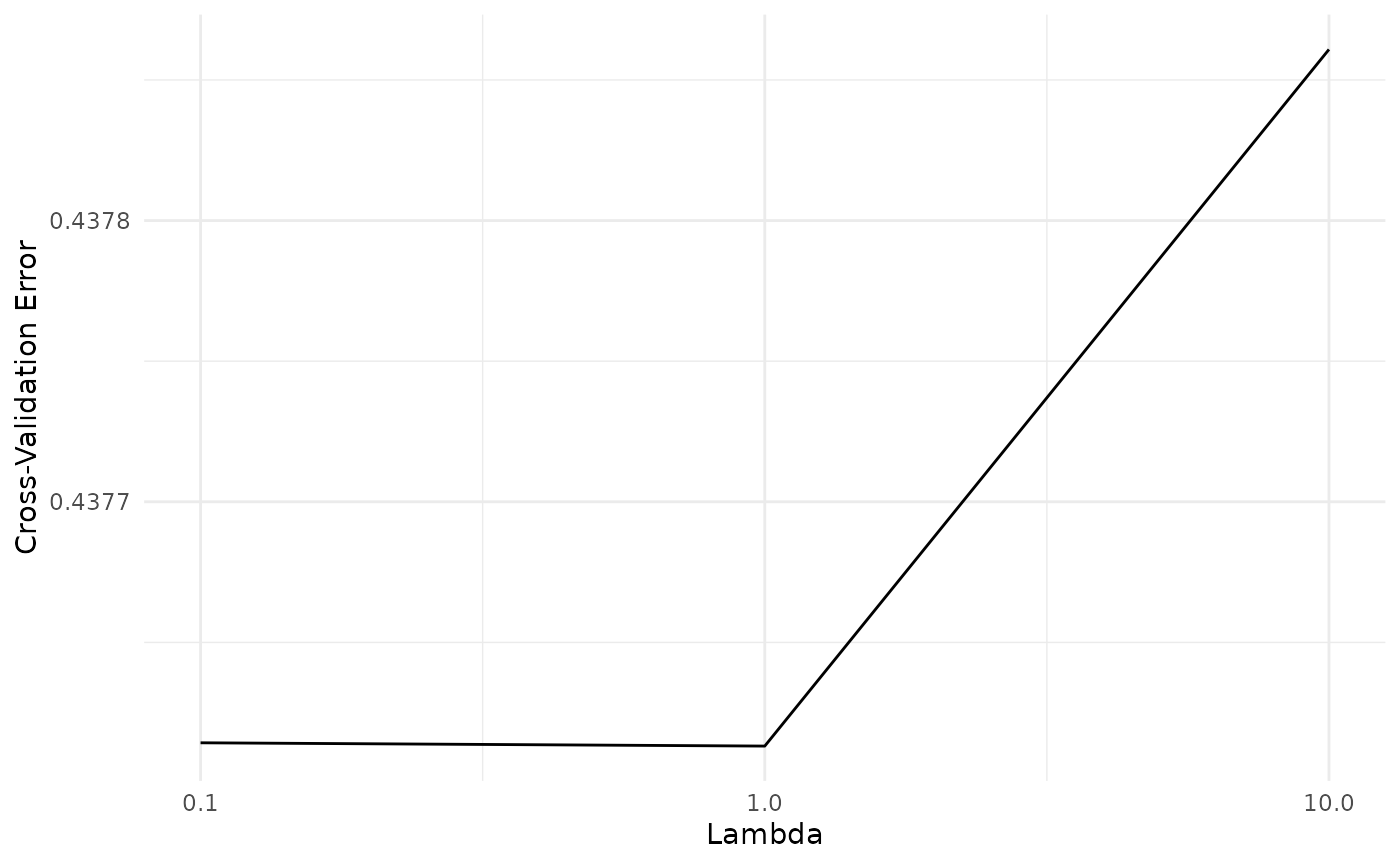
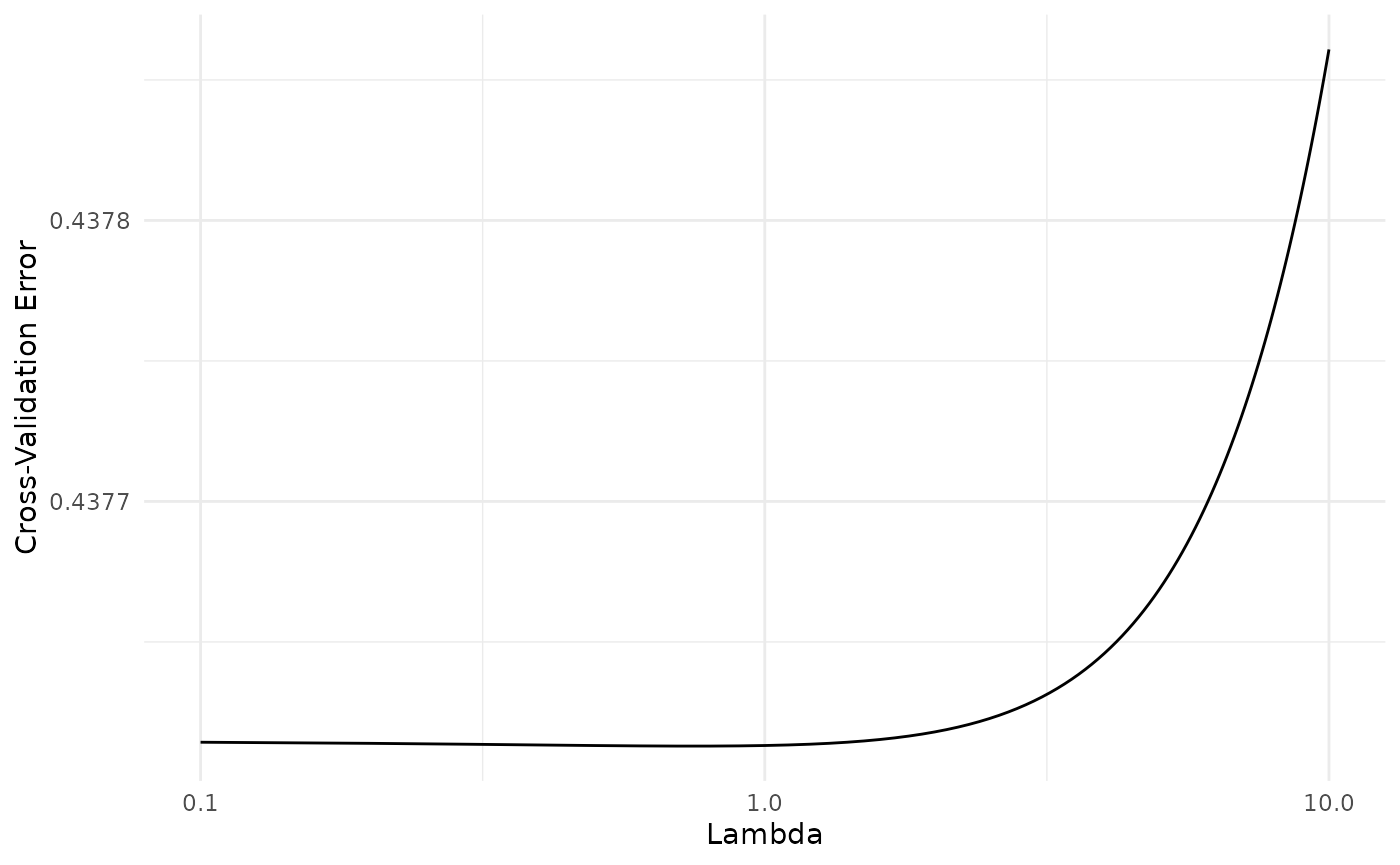
Deploying to gh-pages from @ ldjeuyou-hash/RidgeLeonFokou@33141b610cff39e7c19288529e4f7d5a02a1f2e9 🚀

diff --git a/articles/introduction.html b/articles/introduction.html
@@ -19,7 +19,7 @@
 
     <a class="navbar-brand me-2" href="../index.html">RidgeLeonFokou</a>
 
-    <small class="nav-text text-muted me-auto" data-bs-toggle="tooltip" data-bs-placement="bottom" title="">0.0.0.9000</small>
+    <small class="nav-text text-muted me-auto" data-bs-toggle="tooltip" data-bs-placement="bottom" title="">1.0.0</small>
 
 
     <button class="navbar-toggler" type="button" data-bs-toggle="collapse" data-bs-target="#navbar" aria-controls="navbar" aria-expanded="false" aria-label="Toggle navigation">
@@ -35,6 +35,7 @@
 <li><a class="dropdown-item" href="../articles/introduction.html">Introduction a RidgeLeonFokou</a></li>
   </ul>
 </li>
+<li class="nav-item"><a class="nav-link" href="../news/index.html">Changelog</a></li>
       </ul>
 <ul class="navbar-nav">
 <li class="nav-item"><form class="form-inline" role="search">
@@ -131,7 +132,7 @@ fonction avec les données simulées <code>X</code> et <code>Y</code>
 <span><span class="va">ridge_model</span> <span class="op">&lt;-</span> <span class="fu"><a href="../reference/ridge.html">ridge</a></span><span class="op">(</span></span>
 <span>  X_input <span class="op">=</span> <span class="va">X</span></span>
 <span>  , Y_input <span class="op">=</span> <span class="va">Y</span></span>
-<span>  , lambda_grid <span class="op">=</span> <span class="fu"><a href="https://rdrr.io/r/base/c.html" class="external-link">c</a></span><span class="op">(</span><span class="fl">0.1</span>, <span class="fl">1</span>, <span class="fl">10</span><span class="op">)</span></span>
+<span>  , lambda_grid <span class="op">=</span> <span class="fu"><a href="https://rdrr.io/r/base/seq.html" class="external-link">seq</a></span><span class="op">(</span><span class="fl">0.1</span>, <span class="fl">10</span>, length.out <span class="op">=</span> <span class="fl">100</span><span class="op">)</span></span>
 <span>  , name <span class="op">=</span> <span class="st">"ridge_model_example"</span></span>
 <span>  , n_folds <span class="op">=</span> <span class="fl">5</span></span>
 <span><span class="op">)</span></span></code></pre></div>
@@ -206,9 +207,9 @@ d’utilisation de cette fonction :</p>
 <span><span class="co">#&gt; Nom: ridge_model_example </span></span>
 <span><span class="co">#&gt; Nombre de predicteurs: 4 </span></span>
 <span><span class="co">#&gt; Nombre d'observations: 1000 </span></span>
-<span><span class="co">#&gt; Domaine de Lambda : [0.1, 10]  avec 3 valeurs et pas de 3.3</span></span>
-<span><span class="co">#&gt; Lambda optimal obtenu par validation croisee: 1 </span></span>
-<span><span class="co">#&gt; Erreur de validation croisee minimale: 0.4376131 </span></span>
+<span><span class="co">#&gt; Domaine de Lambda : [0.1, 10]  avec 100 valeurs et pas de 0.099</span></span>
+<span><span class="co">#&gt; Lambda optimal obtenu par validation croisee: 0.7 </span></span>
+<span><span class="co">#&gt; Erreur de validation croisee minimale: 0.4376129 </span></span>
 <span><span class="co">#&gt; Nombre de folds pour la validation croisee: 5</span></span></code></pre></div>
 </div>
 <div class="section level4">
@@ -225,11 +226,12 @@ d’utilisation de cette fonction :</p>
 <span><span class="va">predictions</span> <span class="op">&lt;-</span> <span class="fu"><a href="https://rdrr.io/r/stats/predict.html" class="external-link">predict</a></span><span class="op">(</span>object <span class="op">=</span> <span class="va">ridge_model</span>, X <span class="op">=</span> <span class="va">new_data</span><span class="op">)</span></span>
 <span><span class="fu"><a href="https://rdrr.io/r/utils/head.html" class="external-link">head</a></span><span class="op">(</span><span class="va">predictions</span><span class="op">)</span></span>
 <span><span class="co">#&gt;         [,1]</span></span>
-<span><span class="co">#&gt; 1 78.8713440</span></span>
-<span><span class="co">#&gt; 2  0.8426937</span></span>
-<span><span class="co">#&gt; 3 21.2868170</span></span>
-<span><span class="co">#&gt; 4 38.5204649</span></span>
-<span><span class="co">#&gt; 5 16.3686934</span></span></code></pre></div>
+<span><span class="co">#&gt; 1 78.8706094</span></span>
+<span><span class="co">#&gt; 2  0.8430522</span></span>
+<span><span class="co">#&gt; 3 21.2870103</span></span>
+<span><span class="co">#&gt; 4 38.5205570</span></span>
+<span><span class="co">#&gt; 5 16.3690422</span></span>
+<span><span class="co">#&gt; 6 96.8250517</span></span></code></pre></div>
 <p>Il est tout a fait possible de faire des prédictions sur de nouvelles
 données en utilisant la fonction <code><a href="https://rdrr.io/r/stats/predict.html" class="external-link">predict()</a></code>. Il suffit juste
 de fournir l’objet du modèle de régression et les nouvelles données sur
@@ -243,8 +245,13 @@ d’utilisation de cette fonction :</p>
 <span><span class="va">new_data</span> <span class="op">&lt;-</span> <span class="fu"><a href="https://rdrr.io/r/base/c.html" class="external-link">c</a></span><span class="op">(</span><span class="fl">1</span>, <span class="fl">2</span>, <span class="fl">3</span>, <span class="fl">4</span><span class="op">)</span></span>
 <span><span class="va">predictions</span> <span class="op">&lt;-</span> <span class="fu"><a href="https://rdrr.io/r/stats/predict.html" class="external-link">predict</a></span><span class="op">(</span>object <span class="op">=</span> <span class="va">ridge_model</span>, X <span class="op">=</span> <span class="va">new_data</span><span class="op">)</span></span>
 <span><span class="fu"><a href="https://rdrr.io/r/utils/head.html" class="external-link">head</a></span><span class="op">(</span><span class="va">predictions</span><span class="op">)</span></span>
-<span><span class="co">#&gt;             [,1]</span></span>
-<span><span class="co">#&gt; X_input 12.76577</span></span></code></pre></div>
+<span><span class="co">#&gt;         [,1]</span></span>
+<span><span class="co">#&gt; 1 78.8706094</span></span>
+<span><span class="co">#&gt; 2  0.8430522</span></span>
+<span><span class="co">#&gt; 3 21.2870103</span></span>
+<span><span class="co">#&gt; 4 38.5205570</span></span>
+<span><span class="co">#&gt; 5 16.3690422</span></span>
+<span><span class="co">#&gt; 6 96.8250517</span></span></code></pre></div>
 <p>Si par contre aucune donnée n’est fournie, la fonction
 <code><a href="https://rdrr.io/r/stats/predict.html" class="external-link">predict()</a></code> retournera les prédictions sur les données
 d’entraînement utilisées pour ajuster le modèle. Voici un exemple
@@ -253,12 +260,12 @@ d’utilisation de cette fonction sans fournir de nouvelles données :</p>
 <code class="sourceCode R"><span><span class="va">predictions</span> <span class="op">&lt;-</span> <span class="fu"><a href="https://rdrr.io/r/stats/predict.html" class="external-link">predict</a></span><span class="op">(</span>object <span class="op">=</span> <span class="va">ridge_model</span><span class="op">)</span></span>
 <span><span class="fu"><a href="https://rdrr.io/r/utils/head.html" class="external-link">head</a></span><span class="op">(</span><span class="va">predictions</span><span class="op">)</span></span>
 <span><span class="co">#&gt;         [,1]</span></span>
-<span><span class="co">#&gt; 1 78.8713440</span></span>
-<span><span class="co">#&gt; 2  0.8426937</span></span>
-<span><span class="co">#&gt; 3 21.2868170</span></span>
-<span><span class="co">#&gt; 4 38.5204649</span></span>
-<span><span class="co">#&gt; 5 16.3686934</span></span>
-<span><span class="co">#&gt; 6 96.8254454</span></span></code></pre></div>
+<span><span class="co">#&gt; 1 78.8706094</span></span>
+<span><span class="co">#&gt; 2  0.8430522</span></span>
+<span><span class="co">#&gt; 3 21.2870103</span></span>
+<span><span class="co">#&gt; 4 38.5205570</span></span>
+<span><span class="co">#&gt; 5 16.3690422</span></span>
+<span><span class="co">#&gt; 6 96.8250517</span></span></code></pre></div>
 </div>
 <div class="section level4">
 <h4 id="visualisation-des-erreurs-de-validation-croisée">Visualisation des erreurs de validation croisée<a class="anchor" aria-label="anchor" href="#visualisation-des-erreurs-de-validation-crois%C3%A9e"></a>

diff --git a/news/index.html b/news/index.html
@@ -1,0 +1,61 @@
+<!DOCTYPE html>
+<!-- Generated by pkgdown: do not edit by hand --><html lang="en"><head><meta charset="UTF-8"><meta http-equiv="X-UA-Compatible" content="IE=edge"><meta name="viewport" content="width=device-width, initial-scale=1, shrink-to-fit=no"><title>Changelog • RidgeLeonFokou</title><script src="../deps/jquery-3.6.0/jquery-3.6.0.min.js"></script><meta name="viewport" content="width=device-width, initial-scale=1, shrink-to-fit=no"><link href="../deps/bootstrap-5.3.8/bootstrap.min.css" rel="stylesheet"><script src="../deps/bootstrap-5.3.8/bootstrap.bundle.min.js"></script><link href="../deps/font-awesome-6.5.2/css/all.min.css" rel="stylesheet"><link href="../deps/font-awesome-6.5.2/css/v4-shims.min.css" rel="stylesheet"><script src="../deps/headroom-0.11.0/headroom.min.js"></script><script src="../deps/headroom-0.11.0/jQuery.headroom.min.js"></script><script src="../deps/bootstrap-toc-1.0.1/bootstrap-toc.min.js"></script><script src="../deps/clipboard.js-2.0.11/clipboard.min.js"></script><script src="../deps/search-1.0.0/autocomplete.jquery.min.js"></script><script src="../deps/search-1.0.0/fuse.min.js"></script><script src="../deps/search-1.0.0/mark.min.js"></script><!-- pkgdown --><script src="../pkgdown.js"></script><meta property="og:title" content="Changelog"></head><body>
+    <a href="#main" class="visually-hidden-focusable">Skip to contents</a>
+
+
+    <nav class="navbar navbar-expand-lg fixed-top bg-light" data-bs-theme="light" aria-label="Site navigation"><div class="container">
+
+    <a class="navbar-brand me-2" href="../index.html">RidgeLeonFokou</a>
+
+    <small class="nav-text text-muted me-auto" data-bs-toggle="tooltip" data-bs-placement="bottom" title="">1.0.0</small>
+
+
+    <button class="navbar-toggler" type="button" data-bs-toggle="collapse" data-bs-target="#navbar" aria-controls="navbar" aria-expanded="false" aria-label="Toggle navigation">
+      <span class="navbar-toggler-icon"></span>
+    </button>
+
+    <div id="navbar" class="collapse navbar-collapse ms-3">
+      <ul class="navbar-nav me-auto"><li class="nav-item"><a class="nav-link" href="../reference/index.html">Reference</a></li>
+<li class="nav-item dropdown">
+  <button class="nav-link dropdown-toggle" type="button" id="dropdown-articles" data-bs-toggle="dropdown" aria-expanded="false" aria-haspopup="true">Articles</button>
+  <ul class="dropdown-menu" aria-labelledby="dropdown-articles"><li><a class="dropdown-item" href="../articles/introduction.html">Introduction a RidgeLeonFokou</a></li>
+  </ul></li>
+<li class="active nav-item"><a class="nav-link" href="../news/index.html">Changelog</a></li>
+      </ul><ul class="navbar-nav"><li class="nav-item"><form class="form-inline" role="search">
+ <input class="form-control" type="search" name="search-input" id="search-input" autocomplete="off" aria-label="Search site" placeholder="Search for" data-search-index="../search.json"></form></li>
+<li class="nav-item"><a class="external-link nav-link" href="https://github.com/ldjeuyou-hash/RidgeLeonFokou/" aria-label="GitHub"><span class="fa fab fa-github fa-lg"></span></a></li>
+      </ul></div>
+
+
+  </div>
+</nav><div class="container template-news">
+<div class="row">
+  <main id="main" class="col-md-9"><div class="page-header">
+
+      <h1>Changelog</h1>
+      <small>Source: <a href="https://github.com/ldjeuyou-hash/RidgeLeonFokou/blob/master/NEWS.md" class="external-link"><code>NEWS.md</code></a></small>
+    </div>
+
+    <div class="section level2">
+<h2 class="pkg-version" data-toc-text="1.0.0" id="ridgeleonfokou-100">RidgeLeonFokou 1.0.0<a class="anchor" aria-label="anchor" href="#ridgeleonfokou-100"></a></h2>
+<ul><li>Initial CRAN submission.</li>
+</ul></div>
+  </main></div>
+
+
+    <footer><div class="pkgdown-footer-left">
+  <p>Developed by Leon Fokou.</p>
+</div>
+
+<div class="pkgdown-footer-right">
+  <p>Site built with <a href="https://pkgdown.r-lib.org/" class="external-link">pkgdown</a> 2.2.1.</p>
+</div>
+
+    </footer></div>
+
+
+
+
+
+  </body></html>
+

diff --git a/authors.html b/authors.html
@@ -7,7 +7,7 @@
 
     <a class="navbar-brand me-2" href="index.html">RidgeLeonFokou</a>
 
-    <small class="nav-text text-muted me-auto" data-bs-toggle="tooltip" data-bs-placement="bottom" title="">0.0.0.9000</small>
+    <small class="nav-text text-muted me-auto" data-bs-toggle="tooltip" data-bs-placement="bottom" title="">1.0.0</small>
 
 
     <button class="navbar-toggler" type="button" data-bs-toggle="collapse" data-bs-target="#navbar" aria-controls="navbar" aria-expanded="false" aria-label="Toggle navigation">
@@ -20,6 +20,7 @@
   <button class="nav-link dropdown-toggle" type="button" id="dropdown-articles" data-bs-toggle="dropdown" aria-expanded="false" aria-haspopup="true">Articles</button>
   <ul class="dropdown-menu" aria-labelledby="dropdown-articles"><li><a class="dropdown-item" href="articles/introduction.html">Introduction a RidgeLeonFokou</a></li>
   </ul></li>
+<li class="nav-item"><a class="nav-link" href="news/index.html">Changelog</a></li>
       </ul><ul class="navbar-nav"><li class="nav-item"><form class="form-inline" role="search">
  <input class="form-control" type="search" name="search-input" id="search-input" autocomplete="off" aria-label="Search site" placeholder="Search for" data-search-index="search.json"></form></li>
 <li class="nav-item"><a class="external-link nav-link" href="https://github.com/ldjeuyou-hash/RidgeLeonFokou/" aria-label="GitHub"><span class="fa fab fa-github fa-lg"></span></a></li>
@@ -49,13 +50,13 @@
 
       <p>Fokou L (2026).
 <em>RidgeLeonFokou: Regression Ridge et Validation Croisée</em>.
-R package version 0.0.0.9000, <a href="https://github.com/ldjeuyou-hash/RidgeLeonFokou" class="external-link">https://github.com/ldjeuyou-hash/RidgeLeonFokou</a>.
+R package version 1.0.0, <a href="https://github.com/ldjeuyou-hash/RidgeLeonFokou" class="external-link">https://github.com/ldjeuyou-hash/RidgeLeonFokou</a>.
 </p>
       <pre>@Manual{,
   title = {RidgeLeonFokou: Regression Ridge et Validation Croisée},
   author = {Leon Fokou},
   year = {2026},
-  note = {R package version 0.0.0.9000},
+  note = {R package version 1.0.0},
   url = {https://github.com/ldjeuyou-hash/RidgeLeonFokou},
 }</pre>
     </div>

diff --git a/reference/get_ridge_beta.html b/reference/get_ridge_beta.html
@@ -9,7 +9,7 @@ regression ridge pour un dataframe et une reponse donnee"></head><body>
 
     <a class="navbar-brand me-2" href="../index.html">RidgeLeonFokou</a>
 
-    <small class="nav-text text-muted me-auto" data-bs-toggle="tooltip" data-bs-placement="bottom" title="">0.0.0.9000</small>
+    <small class="nav-text text-muted me-auto" data-bs-toggle="tooltip" data-bs-placement="bottom" title="">1.0.0</small>
 
 
     <button class="navbar-toggler" type="button" data-bs-toggle="collapse" data-bs-target="#navbar" aria-controls="navbar" aria-expanded="false" aria-label="Toggle navigation">
@@ -22,6 +22,7 @@ regression ridge pour un dataframe et une reponse donnee"></head><body>
   <button class="nav-link dropdown-toggle" type="button" id="dropdown-articles" data-bs-toggle="dropdown" aria-expanded="false" aria-haspopup="true">Articles</button>
   <ul class="dropdown-menu" aria-labelledby="dropdown-articles"><li><a class="dropdown-item" href="../articles/introduction.html">Introduction a RidgeLeonFokou</a></li>
   </ul></li>
+<li class="nav-item"><a class="nav-link" href="../news/index.html">Changelog</a></li>
       </ul><ul class="navbar-nav"><li class="nav-item"><form class="form-inline" role="search">
  <input class="form-control" type="search" name="search-input" id="search-input" autocomplete="off" aria-label="Search site" placeholder="Search for" data-search-index="../search.json"></form></li>
 <li class="nav-item"><a class="external-link nav-link" href="https://github.com/ldjeuyou-hash/RidgeLeonFokou/" aria-label="GitHub"><span class="fa fab fa-github fa-lg"></span></a></li>

diff --git a/reference/ridge.html b/reference/ridge.html
@@ -9,7 +9,7 @@ d'un dataframe et d'une valeur réponse donnée"></head><body>
 
     <a class="navbar-brand me-2" href="../index.html">RidgeLeonFokou</a>
 
-    <small class="nav-text text-muted me-auto" data-bs-toggle="tooltip" data-bs-placement="bottom" title="">0.0.0.9000</small>
+    <small class="nav-text text-muted me-auto" data-bs-toggle="tooltip" data-bs-placement="bottom" title="">1.0.0</small>
 
 
     <button class="navbar-toggler" type="button" data-bs-toggle="collapse" data-bs-target="#navbar" aria-controls="navbar" aria-expanded="false" aria-label="Toggle navigation">
@@ -22,6 +22,7 @@ d'un dataframe et d'une valeur réponse donnée"></head><body>
   <button class="nav-link dropdown-toggle" type="button" id="dropdown-articles" data-bs-toggle="dropdown" aria-expanded="false" aria-haspopup="true">Articles</button>
   <ul class="dropdown-menu" aria-labelledby="dropdown-articles"><li><a class="dropdown-item" href="../articles/introduction.html">Introduction a RidgeLeonFokou</a></li>
   </ul></li>
+<li class="nav-item"><a class="nav-link" href="../news/index.html">Changelog</a></li>
       </ul><ul class="navbar-nav"><li class="nav-item"><form class="form-inline" role="search">
  <input class="form-control" type="search" name="search-input" id="search-input" autocomplete="off" aria-label="Search site" placeholder="Search for" data-search-index="../search.json"></form></li>
 <li class="nav-item"><a class="external-link nav-link" href="https://github.com/ldjeuyou-hash/RidgeLeonFokou/" aria-label="GitHub"><span class="fa fab fa-github fa-lg"></span></a></li>

diff --git a/reference/plot_errors.html b/reference/plot_errors.html
@@ -9,7 +9,7 @@ en fonction de la valeur de pénalité lambda"></head><body>
 
     <a class="navbar-brand me-2" href="../index.html">RidgeLeonFokou</a>
 
-    <small class="nav-text text-muted me-auto" data-bs-toggle="tooltip" data-bs-placement="bottom" title="">0.0.0.9000</small>
+    <small class="nav-text text-muted me-auto" data-bs-toggle="tooltip" data-bs-placement="bottom" title="">1.0.0</small>
 
 
     <button class="navbar-toggler" type="button" data-bs-toggle="collapse" data-bs-target="#navbar" aria-controls="navbar" aria-expanded="false" aria-label="Toggle navigation">
@@ -22,6 +22,7 @@ en fonction de la valeur de pénalité lambda"></head><body>
   <button class="nav-link dropdown-toggle" type="button" id="dropdown-articles" data-bs-toggle="dropdown" aria-expanded="false" aria-haspopup="true">Articles</button>
   <ul class="dropdown-menu" aria-labelledby="dropdown-articles"><li><a class="dropdown-item" href="../articles/introduction.html">Introduction a RidgeLeonFokou</a></li>
   </ul></li>
+<li class="nav-item"><a class="nav-link" href="../news/index.html">Changelog</a></li>
       </ul><ul class="navbar-nav"><li class="nav-item"><form class="form-inline" role="search">
  <input class="form-control" type="search" name="search-input" id="search-input" autocomplete="off" aria-label="Search site" placeholder="Search for" data-search-index="../search.json"></form></li>
 <li class="nav-item"><a class="external-link nav-link" href="https://github.com/ldjeuyou-hash/RidgeLeonFokou/" aria-label="GitHub"><span class="fa fab fa-github fa-lg"></span></a></li>

diff --git a/reference/cv_ridge_R.html b/reference/cv_ridge_R.html
@@ -9,7 +9,7 @@ la regression ridge"></head><body>
 
     <a class="navbar-brand me-2" href="../index.html">RidgeLeonFokou</a>
 
-    <small class="nav-text text-muted me-auto" data-bs-toggle="tooltip" data-bs-placement="bottom" title="">0.0.0.9000</small>
+    <small class="nav-text text-muted me-auto" data-bs-toggle="tooltip" data-bs-placement="bottom" title="">1.0.0</small>
 
 
     <button class="navbar-toggler" type="button" data-bs-toggle="collapse" data-bs-target="#navbar" aria-controls="navbar" aria-expanded="false" aria-label="Toggle navigation">
@@ -22,6 +22,7 @@ la regression ridge"></head><body>
   <button class="nav-link dropdown-toggle" type="button" id="dropdown-articles" data-bs-toggle="dropdown" aria-expanded="false" aria-haspopup="true">Articles</button>
   <ul class="dropdown-menu" aria-labelledby="dropdown-articles"><li><a class="dropdown-item" href="../articles/introduction.html">Introduction a RidgeLeonFokou</a></li>
   </ul></li>
+<li class="nav-item"><a class="nav-link" href="../news/index.html">Changelog</a></li>
       </ul><ul class="navbar-nav"><li class="nav-item"><form class="form-inline" role="search">
  <input class="form-control" type="search" name="search-input" id="search-input" autocomplete="off" aria-label="Search site" placeholder="Search for" data-search-index="../search.json"></form></li>
 <li class="nav-item"><a class="external-link nav-link" href="https://github.com/ldjeuyou-hash/RidgeLeonFokou/" aria-label="GitHub"><span class="fa fab fa-github fa-lg"></span></a></li>

diff --git a/reference/X.html b/reference/X.html
@@ -9,7 +9,7 @@ de la librairie."></head><body>
 
     <a class="navbar-brand me-2" href="../index.html">RidgeLeonFokou</a>
 
-    <small class="nav-text text-muted me-auto" data-bs-toggle="tooltip" data-bs-placement="bottom" title="">0.0.0.9000</small>
+    <small class="nav-text text-muted me-auto" data-bs-toggle="tooltip" data-bs-placement="bottom" title="">1.0.0</small>
 
 
     <button class="navbar-toggler" type="button" data-bs-toggle="collapse" data-bs-target="#navbar" aria-controls="navbar" aria-expanded="false" aria-label="Toggle navigation">
@@ -22,6 +22,7 @@ de la librairie."></head><body>
   <button class="nav-link dropdown-toggle" type="button" id="dropdown-articles" data-bs-toggle="dropdown" aria-expanded="false" aria-haspopup="true">Articles</button>
   <ul class="dropdown-menu" aria-labelledby="dropdown-articles"><li><a class="dropdown-item" href="../articles/introduction.html">Introduction a RidgeLeonFokou</a></li>
   </ul></li>
+<li class="nav-item"><a class="nav-link" href="../news/index.html">Changelog</a></li>
       </ul><ul class="navbar-nav"><li class="nav-item"><form class="form-inline" role="search">
  <input class="form-control" type="search" name="search-input" id="search-input" autocomplete="off" aria-label="Search site" placeholder="Search for" data-search-index="../search.json"></form></li>
 <li class="nav-item"><a class="external-link nav-link" href="https://github.com/ldjeuyou-hash/RidgeLeonFokou/" aria-label="GitHub"><span class="fa fab fa-github fa-lg"></span></a></li>

diff --git a/articles/index.html b/articles/index.html
@@ -7,7 +7,7 @@
 
     <a class="navbar-brand me-2" href="../index.html">RidgeLeonFokou</a>
 
-    <small class="nav-text text-muted me-auto" data-bs-toggle="tooltip" data-bs-placement="bottom" title="">0.0.0.9000</small>
+    <small class="nav-text text-muted me-auto" data-bs-toggle="tooltip" data-bs-placement="bottom" title="">1.0.0</small>
 
 
     <button class="navbar-toggler" type="button" data-bs-toggle="collapse" data-bs-target="#navbar" aria-controls="navbar" aria-expanded="false" aria-label="Toggle navigation">
@@ -20,6 +20,7 @@
   <button class="nav-link dropdown-toggle" type="button" id="dropdown-articles" data-bs-toggle="dropdown" aria-expanded="false" aria-haspopup="true">Articles</button>
   <ul class="dropdown-menu" aria-labelledby="dropdown-articles"><li><a class="dropdown-item" href="../articles/introduction.html">Introduction a RidgeLeonFokou</a></li>
   </ul></li>
+<li class="nav-item"><a class="nav-link" href="../news/index.html">Changelog</a></li>
       </ul><ul class="navbar-nav"><li class="nav-item"><form class="form-inline" role="search">
  <input class="form-control" type="search" name="search-input" id="search-input" autocomplete="off" aria-label="Search site" placeholder="Search for" data-search-index="../search.json"></form></li>
 <li class="nav-item"><a class="external-link nav-link" href="https://github.com/ldjeuyou-hash/RidgeLeonFokou/" aria-label="GitHub"><span class="fa fab fa-github fa-lg"></span></a></li>

diff --git a/reference/Folds.html b/reference/Folds.html
@@ -7,7 +7,7 @@
 
     <a class="navbar-brand me-2" href="../index.html">RidgeLeonFokou</a>
 
-    <small class="nav-text text-muted me-auto" data-bs-toggle="tooltip" data-bs-placement="bottom" title="">0.0.0.9000</small>
+    <small class="nav-text text-muted me-auto" data-bs-toggle="tooltip" data-bs-placement="bottom" title="">1.0.0</small>
 
 
     <button class="navbar-toggler" type="button" data-bs-toggle="collapse" data-bs-target="#navbar" aria-controls="navbar" aria-expanded="false" aria-label="Toggle navigation">
@@ -20,6 +20,7 @@
   <button class="nav-link dropdown-toggle" type="button" id="dropdown-articles" data-bs-toggle="dropdown" aria-expanded="false" aria-haspopup="true">Articles</button>
   <ul class="dropdown-menu" aria-labelledby="dropdown-articles"><li><a class="dropdown-item" href="../articles/introduction.html">Introduction a RidgeLeonFokou</a></li>
   </ul></li>
+<li class="nav-item"><a class="nav-link" href="../news/index.html">Changelog</a></li>
       </ul><ul class="navbar-nav"><li class="nav-item"><form class="form-inline" role="search">
  <input class="form-control" type="search" name="search-input" id="search-input" autocomplete="off" aria-label="Search site" placeholder="Search for" data-search-index="../search.json"></form></li>
 <li class="nav-item"><a class="external-link nav-link" href="https://github.com/ldjeuyou-hash/RidgeLeonFokou/" aria-label="GitHub"><span class="fa fab fa-github fa-lg"></span></a></li>

diff --git a/reference/RidgeLeonFokou-package.html b/reference/RidgeLeonFokou-package.html
@@ -7,7 +7,7 @@
 
     <a class="navbar-brand me-2" href="../index.html">RidgeLeonFokou</a>
 
-    <small class="nav-text text-muted me-auto" data-bs-toggle="tooltip" data-bs-placement="bottom" title="">0.0.0.9000</small>
+    <small class="nav-text text-muted me-auto" data-bs-toggle="tooltip" data-bs-placement="bottom" title="">1.0.0</small>
 
 
     <button class="navbar-toggler" type="button" data-bs-toggle="collapse" data-bs-target="#navbar" aria-controls="navbar" aria-expanded="false" aria-label="Toggle navigation">
@@ -20,6 +20,7 @@
   <button class="nav-link dropdown-toggle" type="button" id="dropdown-articles" data-bs-toggle="dropdown" aria-expanded="false" aria-haspopup="true">Articles</button>
   <ul class="dropdown-menu" aria-labelledby="dropdown-articles"><li><a class="dropdown-item" href="../articles/introduction.html">Introduction a RidgeLeonFokou</a></li>
   </ul></li>
+<li class="nav-item"><a class="nav-link" href="../news/index.html">Changelog</a></li>
       </ul><ul class="navbar-nav"><li class="nav-item"><form class="form-inline" role="search">
  <input class="form-control" type="search" name="search-input" id="search-input" autocomplete="off" aria-label="Search site" placeholder="Search for" data-search-index="../search.json"></form></li>
 <li class="nav-item"><a class="external-link nav-link" href="https://github.com/ldjeuyou-hash/RidgeLeonFokou/" aria-label="GitHub"><span class="fa fab fa-github fa-lg"></span></a></li>

diff --git a/reference/Y.html b/reference/Y.html
@@ -7,7 +7,7 @@
 
     <a class="navbar-brand me-2" href="../index.html">RidgeLeonFokou</a>
 
-    <small class="nav-text text-muted me-auto" data-bs-toggle="tooltip" data-bs-placement="bottom" title="">0.0.0.9000</small>
+    <small class="nav-text text-muted me-auto" data-bs-toggle="tooltip" data-bs-placement="bottom" title="">1.0.0</small>
 
 
     <button class="navbar-toggler" type="button" data-bs-toggle="collapse" data-bs-target="#navbar" aria-controls="navbar" aria-expanded="false" aria-label="Toggle navigation">
@@ -20,6 +20,7 @@
   <button class="nav-link dropdown-toggle" type="button" id="dropdown-articles" data-bs-toggle="dropdown" aria-expanded="false" aria-haspopup="true">Articles</button>
   <ul class="dropdown-menu" aria-labelledby="dropdown-articles"><li><a class="dropdown-item" href="../articles/introduction.html">Introduction a RidgeLeonFokou</a></li>
   </ul></li>
+<li class="nav-item"><a class="nav-link" href="../news/index.html">Changelog</a></li>
       </ul><ul class="navbar-nav"><li class="nav-item"><form class="form-inline" role="search">
  <input class="form-control" type="search" name="search-input" id="search-input" autocomplete="off" aria-label="Search site" placeholder="Search for" data-search-index="../search.json"></form></li>
 <li class="nav-item"><a class="external-link nav-link" href="https://github.com/ldjeuyou-hash/RidgeLeonFokou/" aria-label="GitHub"><span class="fa fab fa-github fa-lg"></span></a></li>
